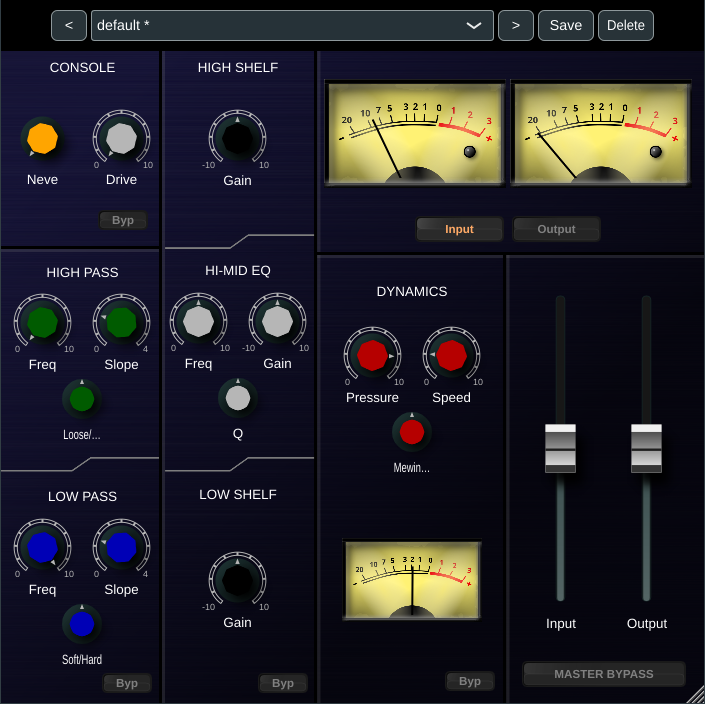
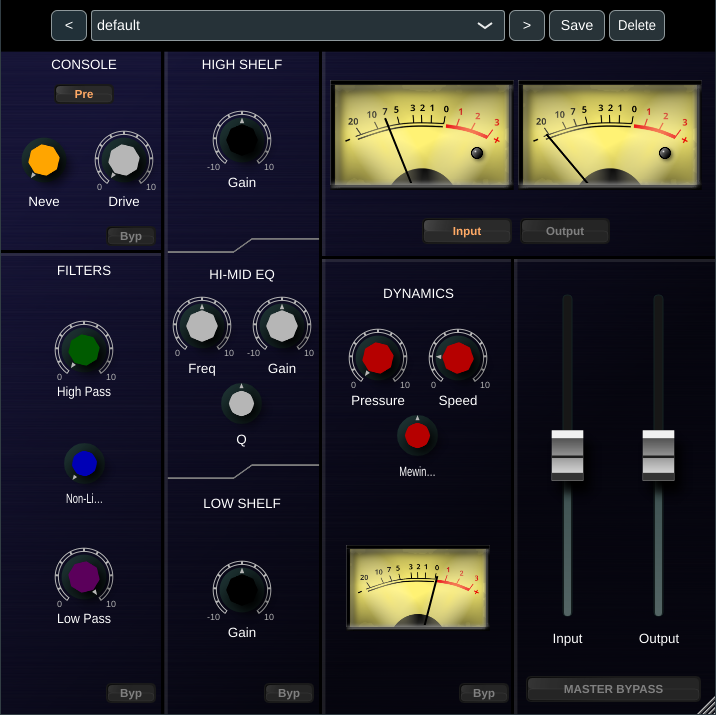
documentation

diff --git a/src/ui/NeedleVUMeter.h b/src/ui/NeedleVUMeter.h
@@ -51,7 +51,7 @@ class NeedleVUMeter : public juce::Component, private juce::Timer
     float backgroundWidth = 750.0f;
     float backgroundHeight = 450.0f;
     float borderWidth = 20.0f;
-    float bottomBorderHeight = 20.0f;
+    float bottomBorderHeight = 10.0f;
 
     float peakX = 280.0f;
     float peakY = 20.0f;

diff --git a/doc/NineStrip_Manual.md b/doc/NineStrip_Manual.md
@@ -54,7 +54,7 @@ header-includes: |
 
 \vspace{0.5cm}
 
-{\large Version 0.0.3}
+{\large Version 0.1.0}
 
 \vspace{1cm}
 
@@ -230,10 +230,15 @@ The NineStrip interface is organized into a single-window layout divided into th
 
 **Left Column - Filtering & Console:**
 
-- **Console** section (top) - Console modeling with Drive control and bypass
+- **Console** section (top)
+  - Pre/Post button
+  - Console modeling 
+  - Drive control
+  - Bypass
 - **Filters** section
-  - **High Pass** section - Frequency, Slope, and Loose/Tight controls
-  - **Low Pass** section - Frequency, Slope, and Soft/Hard controls
+  - High Pass
+  - Non-Linearity 
+  - Low Pass
   - Bypass
 
 **Center Column - Equalization:**
@@ -266,6 +271,10 @@ The interface uses color-coded knobs for quick visual identification: orange for
 # Signal Chain
 
 ![](../pics/signal_chain.svg)
+
+
+CHANNEL9 is instantiated once but runs at either the Pre (right after Interstage) or Post (right before Output) position depending on the 'Pre/Post' parameter.
+Both slots are never active simultaneously.
 
 
 # NineStrip Functional Blocks
@@ -337,99 +346,32 @@ Each console type adjusts the high-pass filter characteristics, slew clipping th
 
 \pagebreak
 
-## Airwindows Highpass2
+## Airwindows Capacitor2
 
-The Highpass2 section provides sophisticated high-pass filtering based on AirWindows Highpass2. This multi-pole IIR (Infinite Impulse Response) filter removes low-frequency content while offering unique tonal characteristics through its interleaved filtering approach.
+The Filters section provides high-pass and low-pass filtering based on Airwindows Capacitor2 — an analog-modeled IIR filter that simulates the behaviour of barium titanate ceramic capacitors, whose capacitance value drops under voltage pressure. Both filters run simultaneously through the same processing chain, cycling through six interleaved IIR filter stages per sample.
 
-### Highpass
+### High Pass
 
-Controls the cutoff frequency of the high-pass filter, progressively removing low-frequency content as the value increases. At zero, the filter has minimal effect; at maximum, aggressive low-frequency attenuation is applied.
+Controls the cutoff frequency of the high-pass filter, removing low-frequency content as the value increases. At zero, the filter has minimal effect.
 
-**Unique Characteristic**: Unlike conventional high-pass filters, Highpass2 employs an interleaved IIR filtering technique that simultaneously reduces extreme high-frequency content. This creates a more natural, analog-like quality by softening the uppermost frequencies while filtering lows, resulting in a gentler overall frequency response.
+**Range:** 0 to +10
 
-### Loose/Tight
+### Low Pass
 
-Adjusts the filter's response characteristics based on signal amplitude, ranging from -10 (Loose) to +10 (Tight). This control shapes how the filter behaves in relation to the input signal level.
+Controls the cutoff frequency of the low-pass filter, removing high-frequency content as the value decreases. At ten, the filter has minimal effect.
 
-**Tight (positive values)**: The filter responds more aggressively to louder signals. Increases filtering on high-level material while maintaining more low-frequency content on quiet signals. Creates a dynamic response where the filter "clamps down" more on strong transients and loud passages.
+**Range:** 0 to +10
 
-**Center (0.0)**: Neutral response where the filter behaves consistently regardless of signal level.
+### Non-Linearity
 
-**Loose (negative values)**: The filter responds more to quiet signals. Increases filtering on low-level material while allowing louder signals to retain more low-frequency content. This can help control subsonic rumble and noise floor issues while preserving punch in prominent elements.
+This is the defining feature of Capacitor2. It models the real-world behaviour of barium titanate capacitors, where the signal voltage itself modulates the cutoff frequency — asymmetrically, on a sample-by-sample basis.
 
-**Note**: Extreme settings (full Loose or full Tight) can produce experimental behaviors, particularly with very quiet signals. For standard mixing applications, moderate settings typically yield the most musical results.
+- **At zero**: Behaves like a clean, transparent filter
+- **Low values**: Adds a subtle analog flavour and slight transient boosting
+- **High values**: Creates an expander-like effect where peak energy increases — not from dynamics processing, but from the frequency modulation itself. Can produce aggressive distortion and grinding at extreme settings
 
-### Poles
+**Range:** -10 to +10
 
-Determines the filter slope steepness by controlling the number of cascaded filter stages, ranging from 0 to 4.0.
-
-- **0.0-1.0**: Single-pole filtering (6 dB/octave) with the gentlest slope and most transparent character
-- **1.0-2.0**: Two-pole filtering (12 dB/octave) providing moderate attenuation
-- **2.0-3.0**: Three-pole filtering (18 dB/octave) for more aggressive low-frequency removal
-- **3.0-4.0**: Four-pole filtering (24 dB/octave) delivering the steepest slope and most pronounced effect
-
-Each additional pole stage increases the filter's steepness while introducing more of Highpass2's characteristic high-frequency softening. The control uses progressive wet/dry blending between stages, allowing smooth transitions and partial pole values for fine-tuning.
-
-### Processing Architecture
-
-Highpass2 utilizes an interleaved IIR filter design that alternates between two sets of filter coefficients on successive samples. This approach provides:
-
-- Natural-sounding high-pass filtering with reduced digital artifacts
-- Subtle high-frequency roll-off that mimics analog behavior
-- Dynamic response control through the Loose/Tight parameter
-- Scalable filter slope via cascaded stages
-
-The interleaved processing creates a softer, more organic quality compared to standard digital high-pass filters, making it particularly effective for transparent low-frequency control without harsh resonances or phase artifacts.
-
-\pagebreak
-
-## Airwindows Lowpass2
-
-The Lowpass2 section provides sophisticated low-pass filtering based on AirWindows Lowpass2. This multi-pole IIR (Infinite Impulse Response) filter removes high-frequency content while offering dynamic amplitude-dependent filtering characteristics through its interleaved processing approach.
-
-### Lowpass
-
-Controls the cutoff frequency of the low-pass filter, progressively removing high-frequency content as the value increases. At zero, the filter has minimal effect; at maximum, aggressive high-frequency attenuation is applied.
-
-**Unique Characteristic**: Unlike conventional low-pass filters, Lowpass2 employs an interleaved IIR filtering technique that preserves extreme high-frequency content. Frequencies near the Nyquist limit (e.g., 22kHz at 44.1kHz sample rate) are minimally affected, providing enhanced clarity in the retained frequency range while still smoothly rolling off mid-high frequencies.
-
-### Soft/Hard
-
-Adjusts the filter's dynamic response characteristics based on signal amplitude, ranging from -10 (Soft) to +10 (Hard). This control creates amplitude-dependent filtering behavior on a sample-by-sample basis, producing effects distinctly different from traditional envelope followers.
-
-**Soft (negative values)**: The filter rolls off more aggressively on louder signals. High-level material experiences increased filtering while quieter sounds retain more high-frequency content. Creates a smoothing effect where transients and peaks are mellowed, resulting in a "softer" overall character. Useful for taming harsh high-frequency peaks while preserving detail in quieter passages.
-
-**Center (0.0)**: Neutral response where the filter behaves consistently regardless of signal level.
-
-**Hard (positive values)**: The filter rolls off more aggressively on quieter signals. Low-level material experiences increased filtering while louder sounds break through with more high-frequency content. Creates a dynamic "opening" effect where transients and peaks punch through brighter. Can produce characteristic artifacts including spiky, crunchy textures on complex material, particularly effective for creative sound design applications.
-
-**Sound Design Applications**: Extreme Hard settings can create unique effects on noise and complex signals, producing wind-like textures, dynamic crackle, and movement-based filtering. The sample-level processing creates textures unachievable with traditional envelope-controlled filters.
-
-### Poles
-
-Determines the filter slope steepness by controlling the number of cascaded filter stages, ranging from 0 to 4.0.
-
-**0.0-1.0**: Single-pole filtering (6 dB/octave) with the gentlest slope, offering subtle high-frequency roll-off and maximum transparency
-
-**1.0-2.0**: Two-pole filtering (12 dB/octave) providing moderate attenuation with a balanced character
-
-**2.0-3.0**: Three-pole filtering (18 dB/octave) for more pronounced low-pass effect
-
-**3.0-4.0**: Four-pole filtering (24 dB/octave) delivering the steepest slope and most dramatic filtering
-
-Each additional pole stage increases the filter's steepness and intensifies the Soft/Hard control's effect. The control uses progressive wet/dry blending between stages, allowing smooth transitions and partial pole values for fine-tuning. Higher pole counts amplify the dynamic filtering behaviors, making the Soft/Hard parameter more pronounced.
-
-### Processing Architecture
-
-Lowpass2 utilizes an interleaved IIR filter design that alternates between two sets of filter coefficients on successive samples. This approach provides:
-
-- Smooth low-pass filtering with preservation of ultra-high frequencies
-- Dynamic amplitude-dependent filtering operating at the sample level
-- More organic, less "digital" sound quality compared to standard filters
-- Scalable filter slope via cascaded stages
-- Creative sound design potential through extreme parameter combinations
-
-The interleaved processing creates a unique tonal character that combines traditional filtering with dynamic response characteristics. The Soft/Hard control's sample-level operation produces averaging effects that distinguish it from envelope-based filtering, enabling both subtle mixing applications and extreme creative effects.
 
 \pagebreak
 

diff --git a/README.md b/README.md
@@ -21,11 +21,9 @@ PURESTGAIN - Input Gain
     ↓
 INTERSTAGE - Analog Conditioning
     ↓
-CHANNEL9 - Console model + Saturation + Drive
+CHANNEL9* - Console model + Saturation + Drive
     ↓
-HIGHPASS2 - High Pass
-    ↓
-LOWPASS2 - Low Pass
+CAPACITRO2 - High & Low Pass
     ↓
 BAXANDALL2 - Bass and Treble Shelves
     ↓
@@ -35,8 +33,12 @@ DC BLOCKER - DC Offset Removal
     ↓
 PRESSURE4 - Compressor
     ↓
+CHANNEL9* - Console model + Saturation + Drive
+    ↓
 PURESTGAIN - Output Gain
 ```
+
+__CHANNEL9 runs either Pre (after Input Gain/Interstage) or Post (before Output Gain), never both simultaneously.__
 
 ## Features
 
